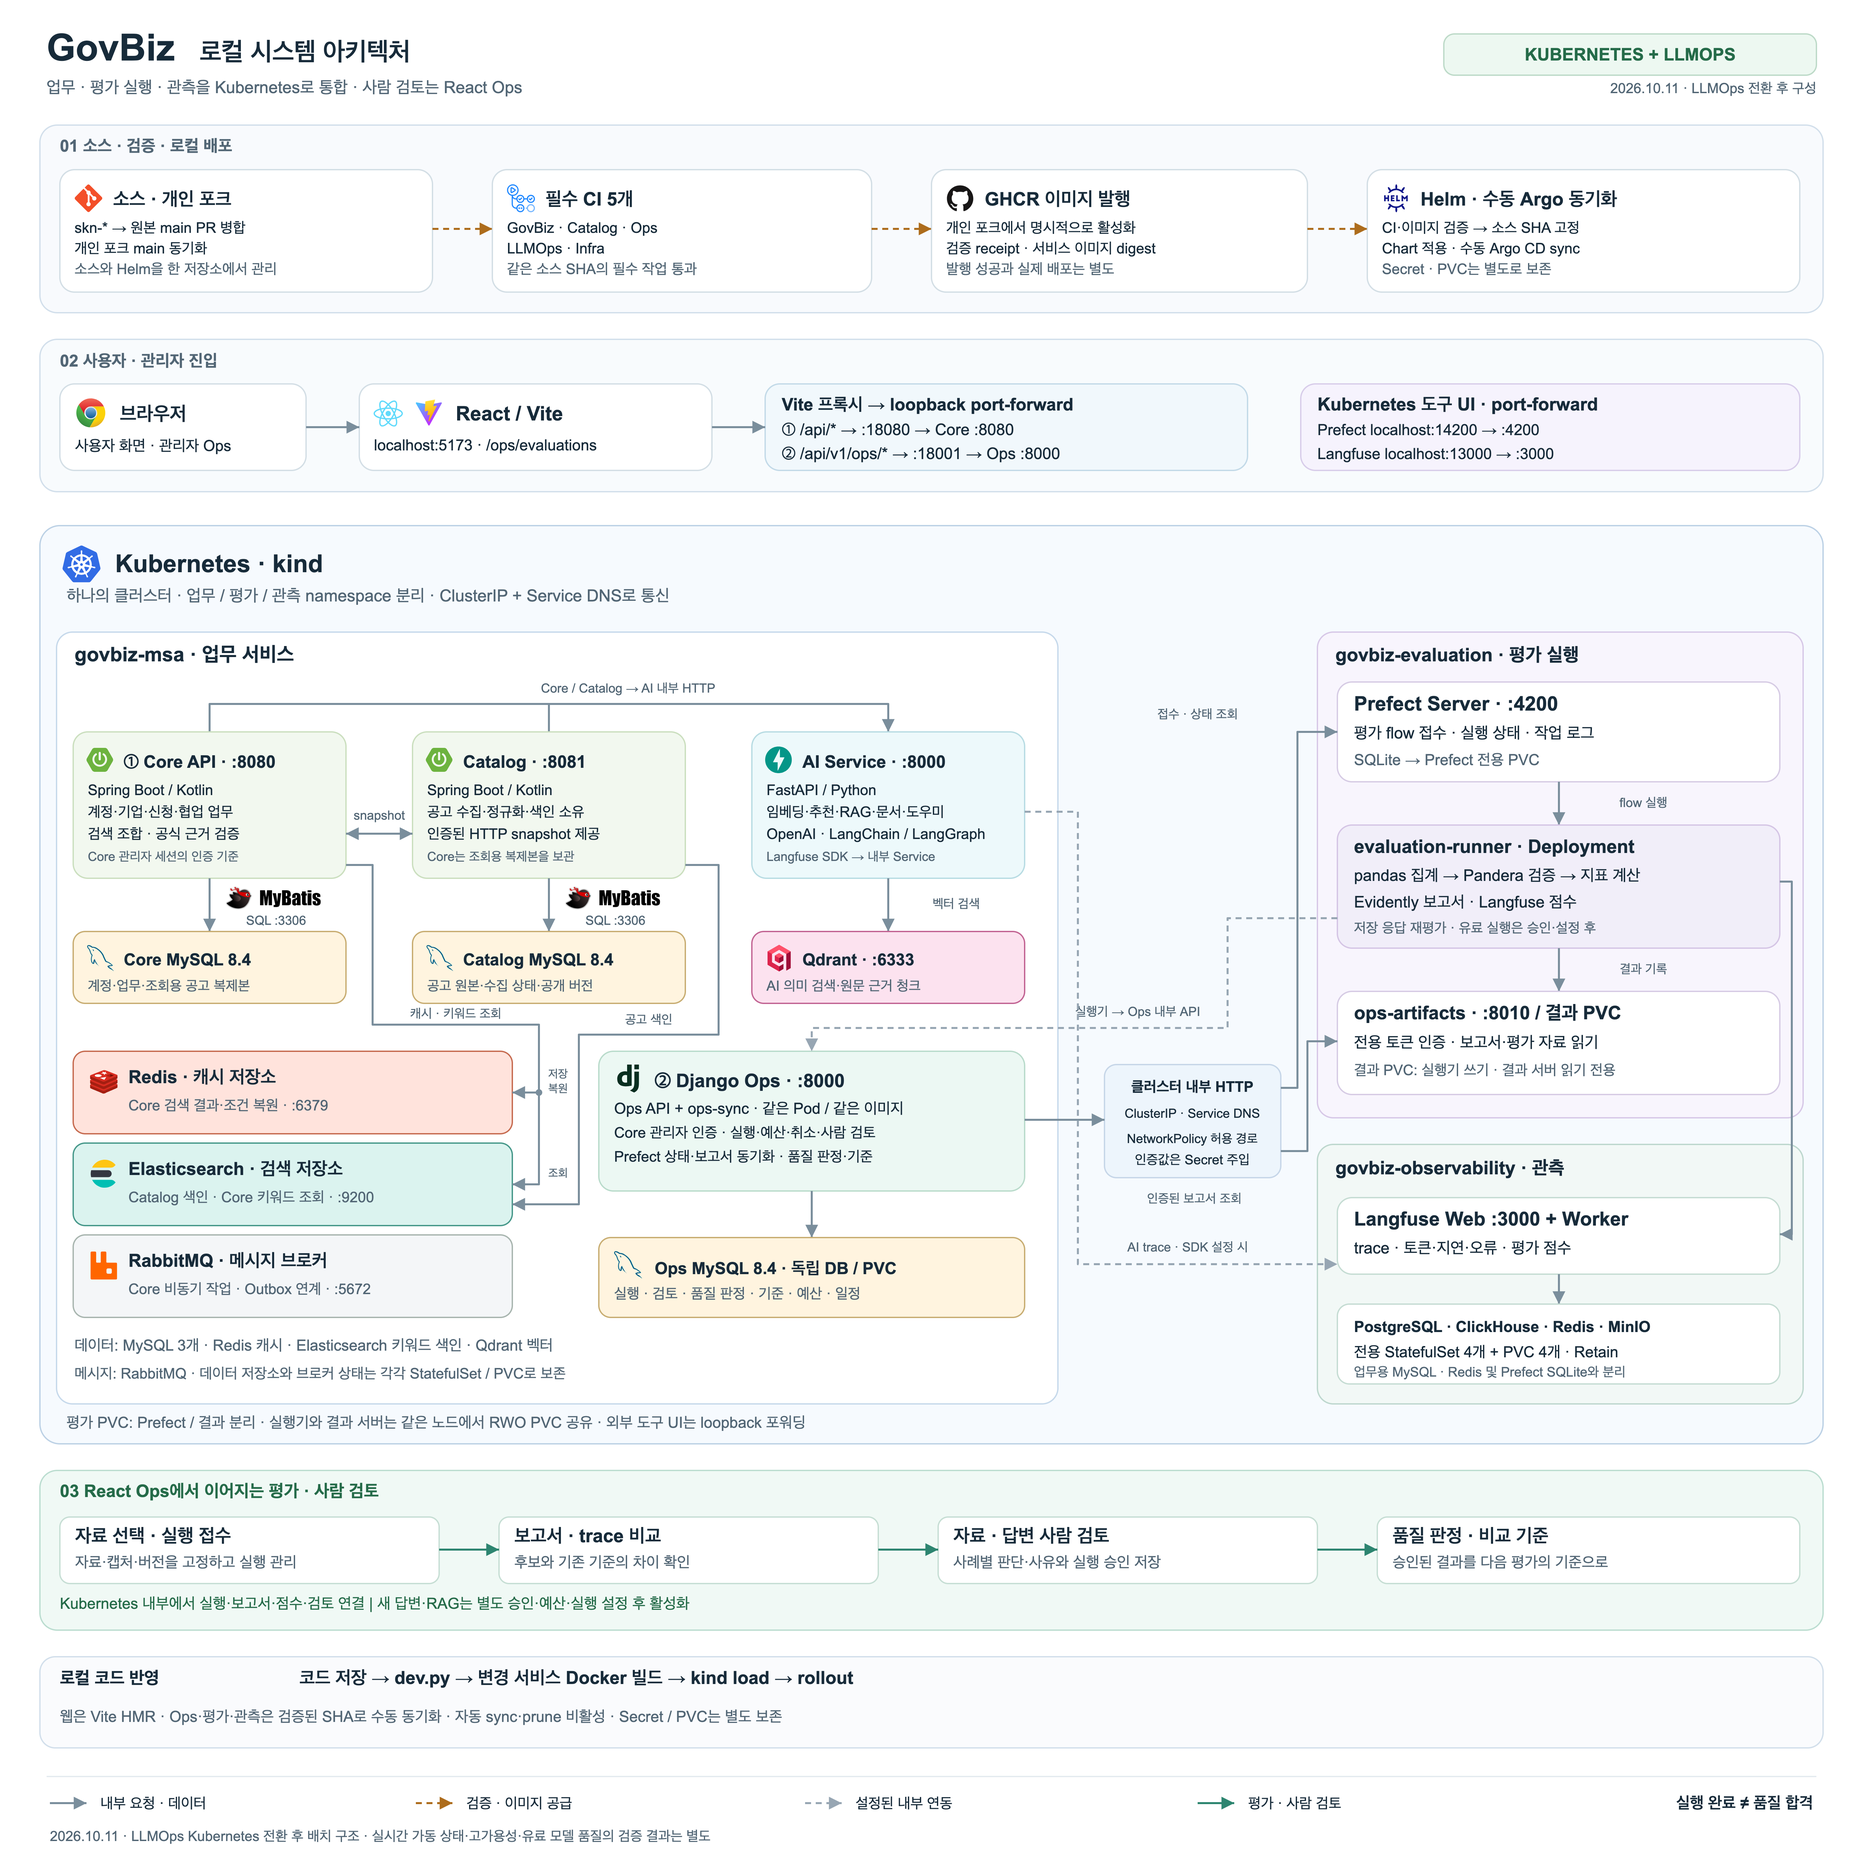
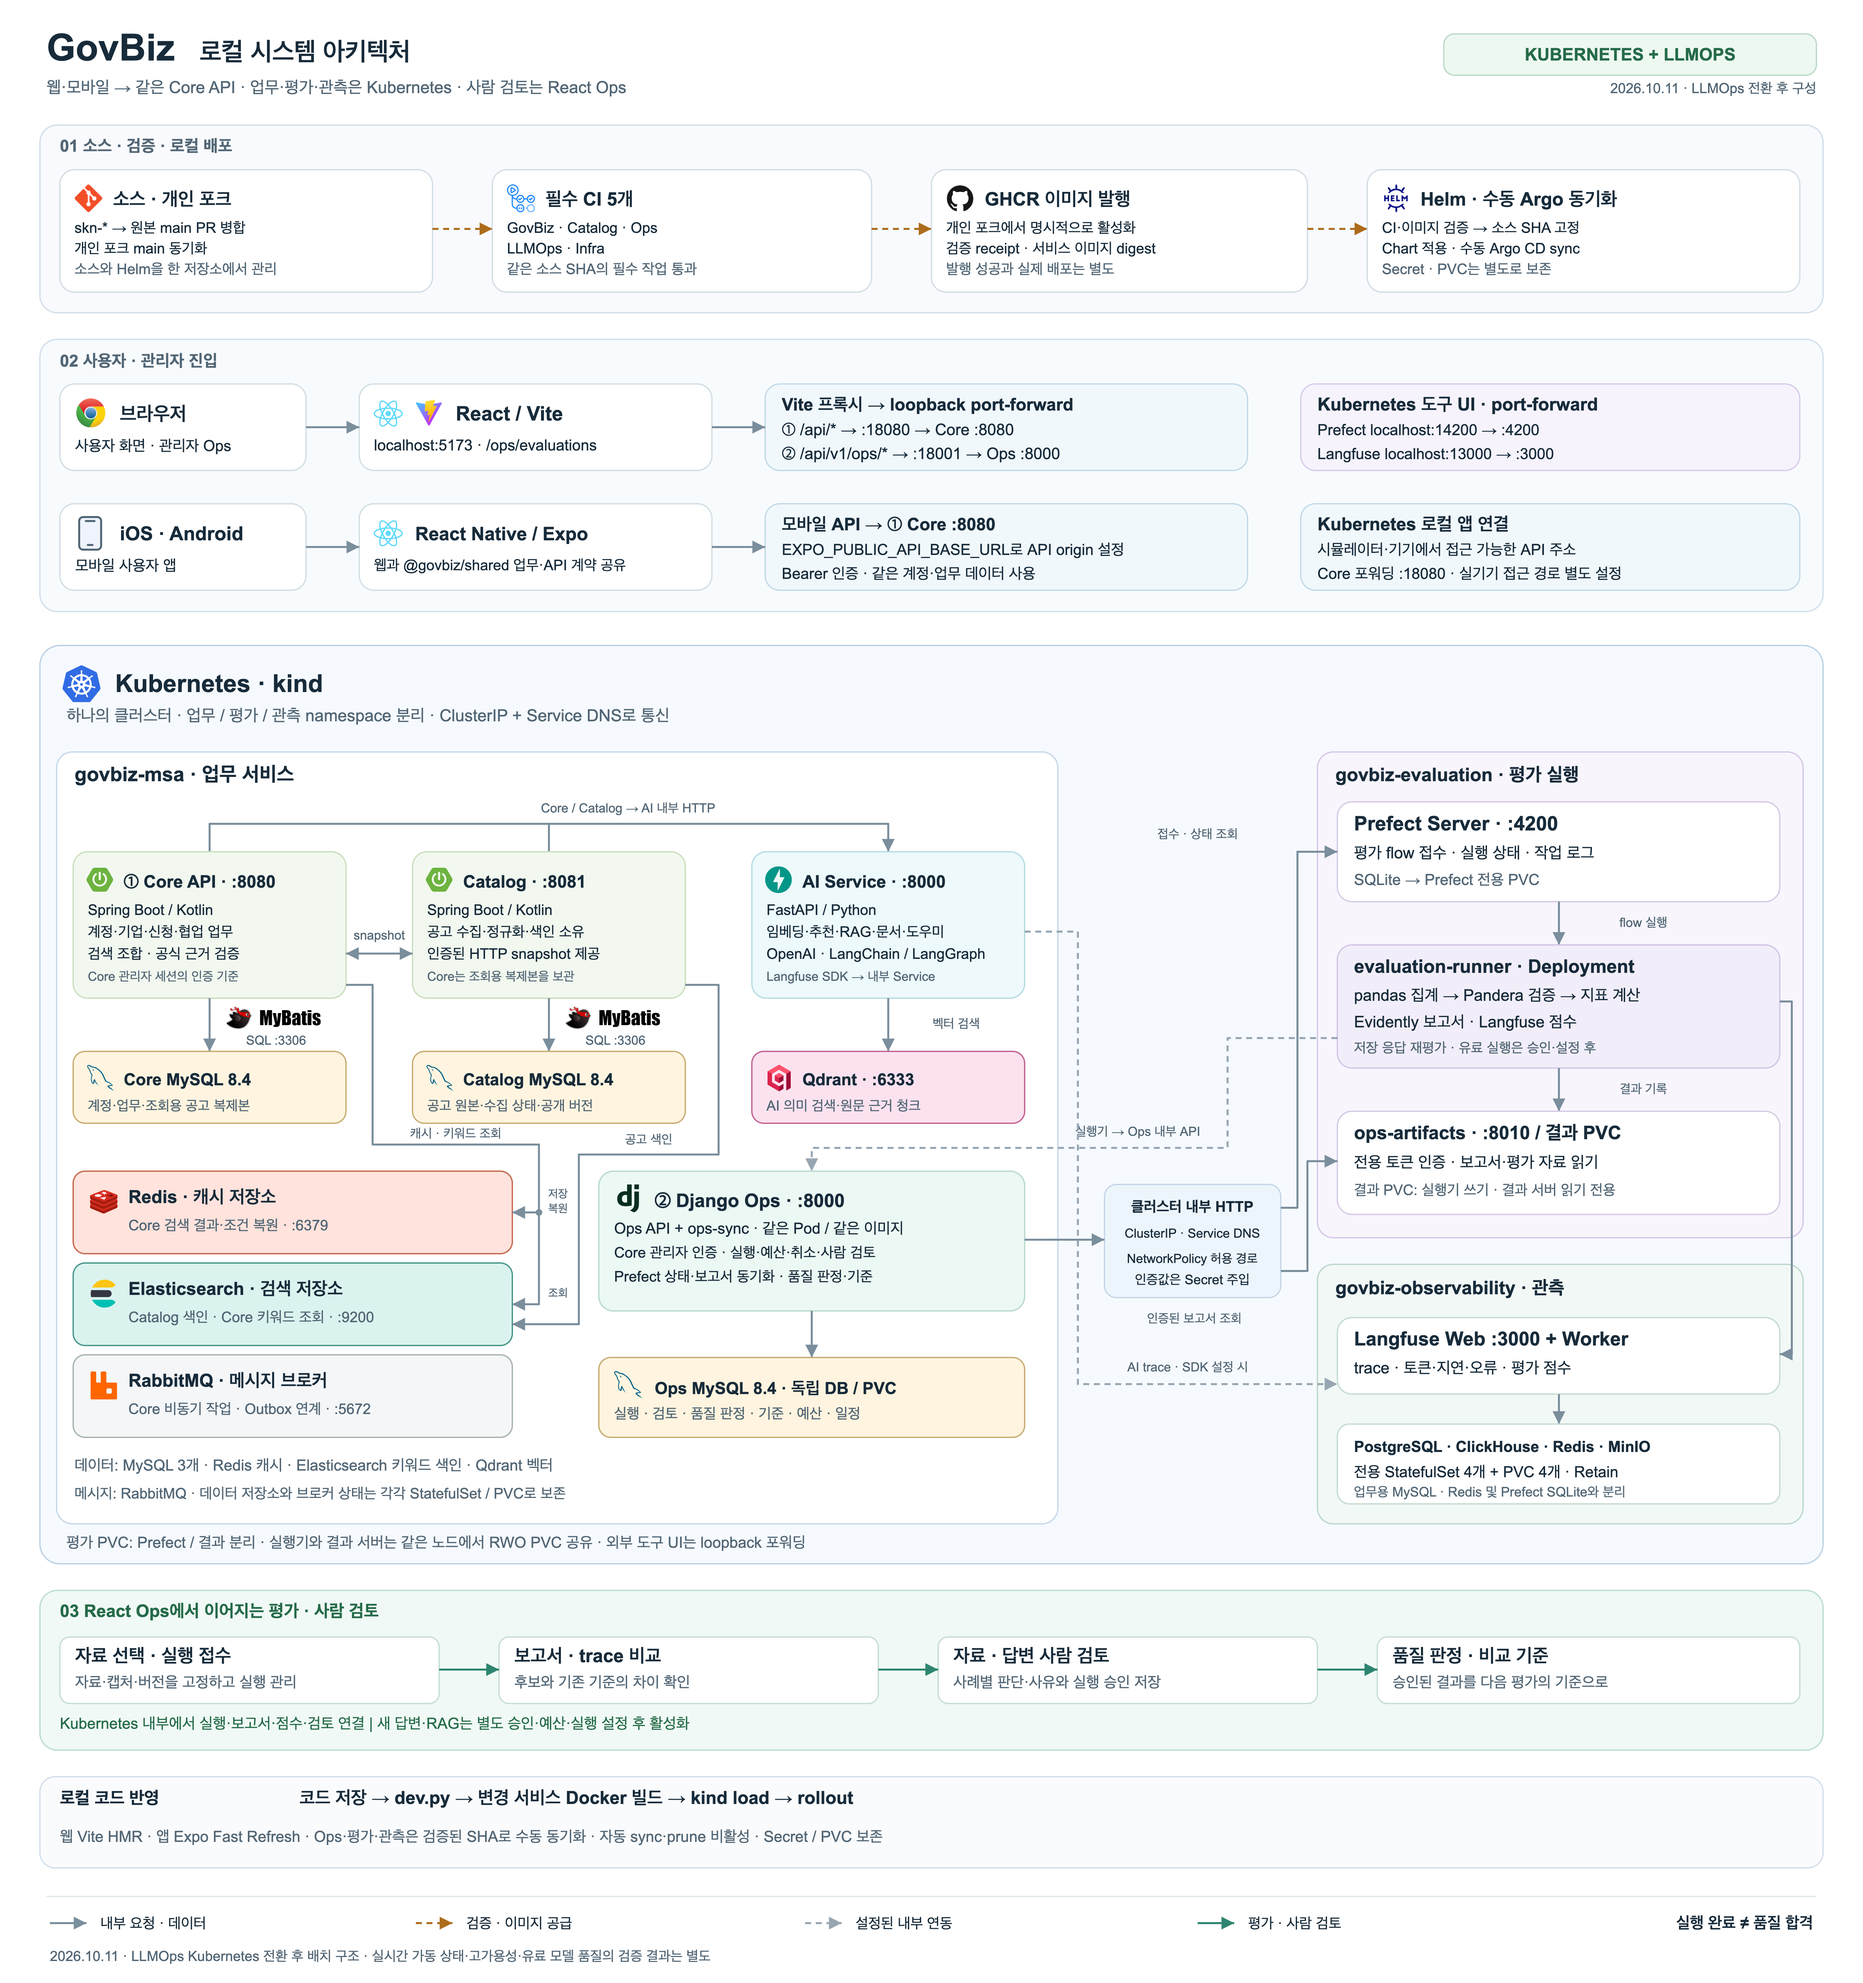
문서: Kubernetes 구성도에 모바일 앱 연결 경로 추가

diff --git a/docs/assets/architecture/README-local.md b/docs/assets/architecture/README-local.md
@@ -8,8 +8,8 @@
 
 ## 파일
 
-- [PNG](govbiz-local-architecture.png): 5,600 × 5,600, GitHub·발표 첨부용.
-- [SVG](govbiz-local-architecture.svg): 2,800 × 2,800, 로고가 내장된 편집 가능한 원본.
+- [PNG](govbiz-local-architecture.png): 5,600 × 5,960, GitHub·발표 첨부용.
+- [SVG](govbiz-local-architecture.svg): 2,800 × 2,980, 로고가 내장된 편집 가능한 원본.
 - [생성 스크립트](build-local.mjs): 기존 로컬 로고를 사용하며 클러스터·GHCR에 접근하지 않습니다.
 - 로고 출처·해시는 [Kubernetes 로고 목록](kubernetes-logo-sources.json), [RabbitMQ·MyBatis 로고 목록](logo-sources.json), [Devicon 라이선스](DEVICON-LICENSE)를 따릅니다.
 
@@ -63,23 +63,36 @@ Kubernetes로 옮겼다는 이유로 유료 모델 호출을 켜지 않습니다
 ## 3. 로컬 화면 접근
 
 웹은 PC의 React/Vite에서 실행하며, API와 도구 UI는 Kubernetes Service의 loopback port-forward로 연결합니다.
+모바일은 iOS·Android의 React Native·Expo 앱이며, `EXPO_PUBLIC_API_BASE_URL`에 지정한 API origin으로
+같은 Core API를 호출합니다. 웹·앱은 `@govbiz/shared`의 업무 모델·API 계약·응답 검증을 공유합니다.
 
 | 로컬 진입 | Kubernetes 대상 |
 |---|---|
 | `localhost:5173`의 `/api/*` | Vite → `127.0.0.1:18080` → Core `:8080` |
 | 같은 웹의 `/api/v1/ops/*` | Vite → `127.0.0.1:18001` → Ops `:8000` |
+| 모바일 앱의 `/api/*` | 기기에서 접근 가능한 Core API origin → Core `:8080` (Bearer 인증) |
 | Prefect `localhost:14200` | `govbiz-evaluation`의 Prefect `:4200` |
 | Langfuse `localhost:13000` | `govbiz-observability`의 Langfuse web `:3000` |
 
 관리 화면은 `/ops/evaluations`이며, 기존 Core 관리자 계정을 사용합니다.
-Ops 프록시는 Host·Origin을 보존해 CSRF를 검증합니다. 외부 ingress·TLS와 모바일 실기기 접근은 이 로컬 그림의 범위 밖입니다.
+Ops 프록시는 Host·Origin을 보존해 CSRF를 검증합니다. 모바일은 Core에서 발급한 Bearer 세션을 사용합니다.
+
+Kubernetes의 Core 포워딩 포트는 `18080`입니다. iOS 시뮬레이터는 `http://localhost:18080`,
+Android 에뮬레이터는 `http://10.0.2.2:18080`을 앱의 API origin으로 지정합니다.
+실기기는 PC의 loopback 주소에 직접 접근할 수 없으므로 USB `adb reverse`나 기기에서 접근 가능한
+별도 개발 API 주소가 필요합니다. USB Android에서는 `adb reverse tcp:18080 tcp:18080` 후
+`http://localhost:18080`을 사용합니다. 외부 ingress·TLS 및 실제 기기 연결 검증은 별도입니다.
+
+근거: [모바일 실행·인증](../../../frontend/mobile/README.md#로컬-실행) ·
+[모바일 API 주소·인증 구현](../../../frontend/mobile/src/api/client.ts) · [웹·앱 공통 계약](../../mobile-monorepo.md).
 
 ## 4. 이미지·배포·보존
 
 동일 소스 SHA의 GovBiz·Catalog·Ops·LLMOps·Infra CI와 이미지 검증을 통과한 digest를 사용합니다.
 Helm Chart와 소스 SHA를 고정하고 Argo CD는 **수동 동기화**합니다. 자동 sync·prune는 활성화하지 않습니다.
 Secret·PVC는 별도 절차로 준비·보존하며, 앱 갱신과 데이터 삭제를 연결하지 않습니다.
-웹 개발은 Vite HMR, 선택 업무 서비스 갱신은 기존 `dev.py`의 Docker 빌드·kind 적재·rollout 경로를 사용합니다.
+웹 개발은 Vite HMR, 모바일 개발은 Expo Fast Refresh를 사용합니다.
+선택 업무 서비스 갱신은 기존 `dev.py`의 Docker 빌드·kind 적재·rollout 경로를 사용합니다.
 
 - [이미지 발행](../../msa-image-release.md) · [개인 Kubernetes 개발](../../local-fork-development.md)
 - [평가 환경 이전·PVC 복원 기록](../../../infrastructure/gitops/docs/evaluation-kubernetes.md)

diff --git a/docs/assets/architecture/README.md b/docs/assets/architecture/README.md
@@ -26,7 +26,8 @@
 
 LLMOps까지 Kubernetes로 전환한 구조입니다. 하나의 kind 클러스터 안에서 업무(`govbiz-msa`),
 평가(`govbiz-evaluation`), 관측(`govbiz-observability`) namespace를 구분합니다.
-Prefect·실행기·결과 서버·Langfuse와 저장소를 내부 Service·PVC로 연결하고, UI는 port-forward로 접근합니다.
+React/Vite 웹과 React Native·Expo 모바일 앱은 같은 Core API·공통 계약을 사용하고, 관리자 Ops는 웹에서 접근합니다.
+Prefect·실행기·결과 서버·Langfuse와 저장소를 내부 Service·PVC로 연결하고, 도구 UI는 port-forward로 접근합니다.
 실제 이전 기록과 그림의 범위는 [그림 설명](README-local.md#그림의-기준)을 따릅니다.
 
 ## 통합 전 Mac Kubernetes · 비공개 GHCR · Argo CD 기록
